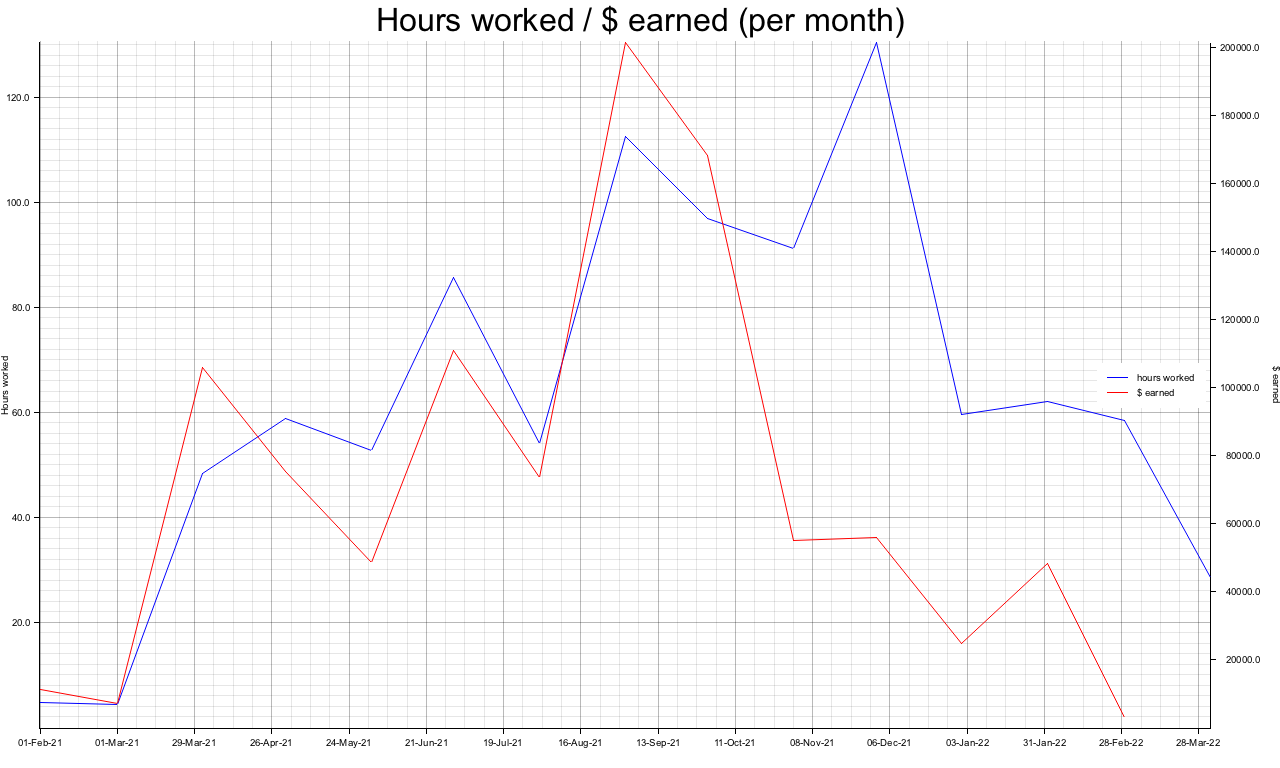
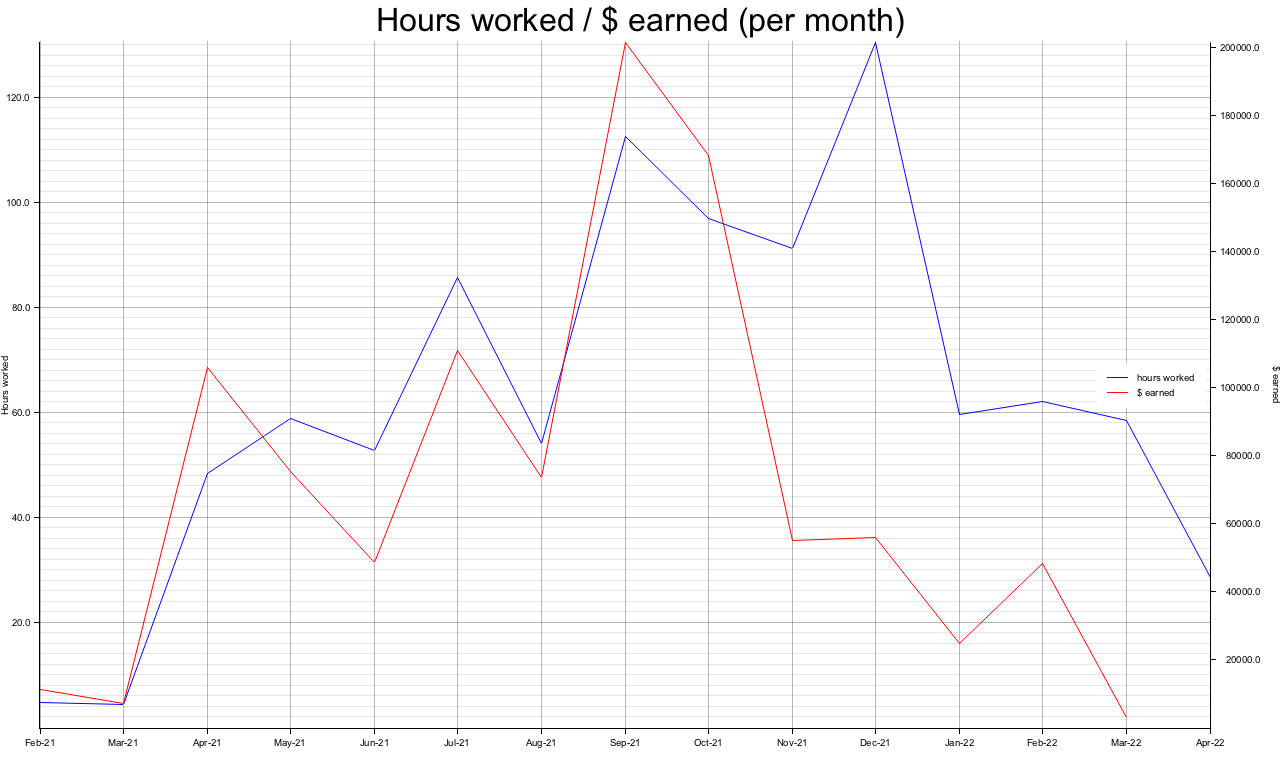
make date-axis' ticks equal

diff --git a/src/main.rs b/src/main.rs
@@ -164,8 +164,8 @@ fn create_dual_plot(hours_worked: Vec<(Date<Utc>, f64)>, awards_earned: Vec<(Dat
         BitMapBackend::new("plots/work_awards_dual.png", (1280, 768)).into_drawing_area();
     root_area.fill(&WHITE).unwrap();
 
-    let min_date = *hours_worked.iter().map(|(date, _)| date).min().unwrap();
-    let max_date = *hours_worked.iter().map(|(date, _)| date).max().unwrap();
+    let min_date = 0;
+    let max_date = hours_worked.len() - 1;
     // does not work, cannot sort f64s ...
     // let max_val = *hours_worked.iter().map(|(_, minutes)| minutes).max().unwrap();
     let max_hours = hours_worked
@@ -189,7 +189,7 @@ fn create_dual_plot(hours_worked: Vec<(Date<Utc>, f64)>, awards_earned: Vec<(Dat
     ctx.configure_mesh()
         .x_labels(hours_worked.len())
         // We can also change the format of the label text
-        .x_label_formatter(&|d| d.format("%d-%b-%y").to_string())
+        .x_label_formatter(&|d| hours_worked[*d].0.format("%b-%y").to_string())
         .y_desc("Hours worked")
         .draw()
         .unwrap();
@@ -199,15 +199,27 @@ fn create_dual_plot(hours_worked: Vec<(Date<Utc>, f64)>, awards_earned: Vec<(Dat
         .draw()
         .unwrap();
 
-    ctx.draw_series(LineSeries::new(hours_worked, &BLUE))
-        .unwrap()
-        .label("hours worked")
-        .legend(|(x, y)| PathElement::new(vec![(x, y), (x + 20, y)], &BLUE));
+    ctx.draw_series(LineSeries::new(
+        hours_worked
+            .iter()
+            .enumerate()
+            .map(|(index, &(_x, y))| (index, y)),
+        &BLUE,
+    ))
+    .unwrap()
+    .label("hours worked")
+    .legend(|(x, y)| PathElement::new(vec![(x, y), (x + 20, y)], &BLUE));
 
-    ctx.draw_secondary_series(LineSeries::new(awards_earned, &RED))
-        .unwrap()
-        .label("$ earned")
-        .legend(|(x, y)| PathElement::new(vec![(x, y), (x + 20, y)], &RED));
+    ctx.draw_secondary_series(LineSeries::new(
+        awards_earned
+            .iter()
+            .enumerate()
+            .map(|(index, &(_x, y))| (index, y)),
+        &RED,
+    ))
+    .unwrap()
+    .label("$ earned")
+    .legend(|(x, y)| PathElement::new(vec![(x, y), (x + 20, y)], &RED));
 
     ctx.configure_series_labels()
         .background_style(&RGBColor(255, 255, 255))
@@ -215,16 +227,23 @@ fn create_dual_plot(hours_worked: Vec<(Date<Utc>, f64)>, awards_earned: Vec<(Dat
         .unwrap();
 }
 
-fn create_hourly_rate_plot(hours_worked: Vec<(Date<Utc>, f64)>, awards_earned: Vec<(Date<Utc>, f64)>) {
-    let hourly_rate:Vec<(Date<Utc>, f64)> = hours_worked.into_iter().zip(awards_earned.iter()).map(|((date, hours), (_date, awards))| (date, awards / hours)).collect();
+fn create_hourly_rate_plot(
+    hours_worked: Vec<(Date<Utc>, f64)>,
+    awards_earned: Vec<(Date<Utc>, f64)>,
+) {
+    let hourly_rate: Vec<(Date<Utc>, f64)> = hours_worked
+        .iter()
+        .zip(awards_earned.iter())
+        .map(|(&(date, hours), &(_date, awards))| (date, awards / hours))
+        .collect();
     println!("{:?}", hourly_rate);
-    let root_area =
-        BitMapBackend::new("plots/hourly_rate.png", (1280, 768)).into_drawing_area();
+    let root_area = BitMapBackend::new("plots/hourly_rate.png", (1280, 768)).into_drawing_area();
     root_area.fill(&WHITE).unwrap();
 
-    let min_date = *hourly_rate.iter().map(|(date, _)| date).min().unwrap();
-    let max_date = *hourly_rate.iter().map(|(date, _)| date).max().unwrap();
-    let max_hours = hourly_rate.iter()
+    let min_date = 0;
+    let max_date = hourly_rate.len() - 1;
+    let max_hours = hourly_rate
+        .iter()
         .map(|(_, val)| *val)
         .fold(f64::NEG_INFINITY, f64::max);
 
@@ -237,16 +256,22 @@ fn create_hourly_rate_plot(hours_worked: Vec<(Date<Utc>, f64)>, awards_earned: V
         .unwrap();
 
     ctx.configure_mesh()
-        .x_labels(hourly_rate.len())
+        .x_labels(hours_worked.len())
         // We can also change the format of the label text
-        .x_label_formatter(&|d| d.format("%d-%b-%y").to_string())
+        .x_label_formatter(&|d| hours_worked[*d].0.format("%b-%y").to_string())
         .y_desc("Hourly rate $/h")
         .draw()
         .unwrap();
 
-    ctx.draw_series(LineSeries::new(hourly_rate, &BLUE))
-        .unwrap()
-        .label("hourly rate $/h");
+    ctx.draw_series(LineSeries::new(
+        hourly_rate
+            .iter()
+            .enumerate()
+            .map(|(index, &(_x, y))| (index, y)),
+        &BLUE,
+    ))
+    .unwrap()
+    .label("hourly rate $/h");
 }
 
 fn main() {
